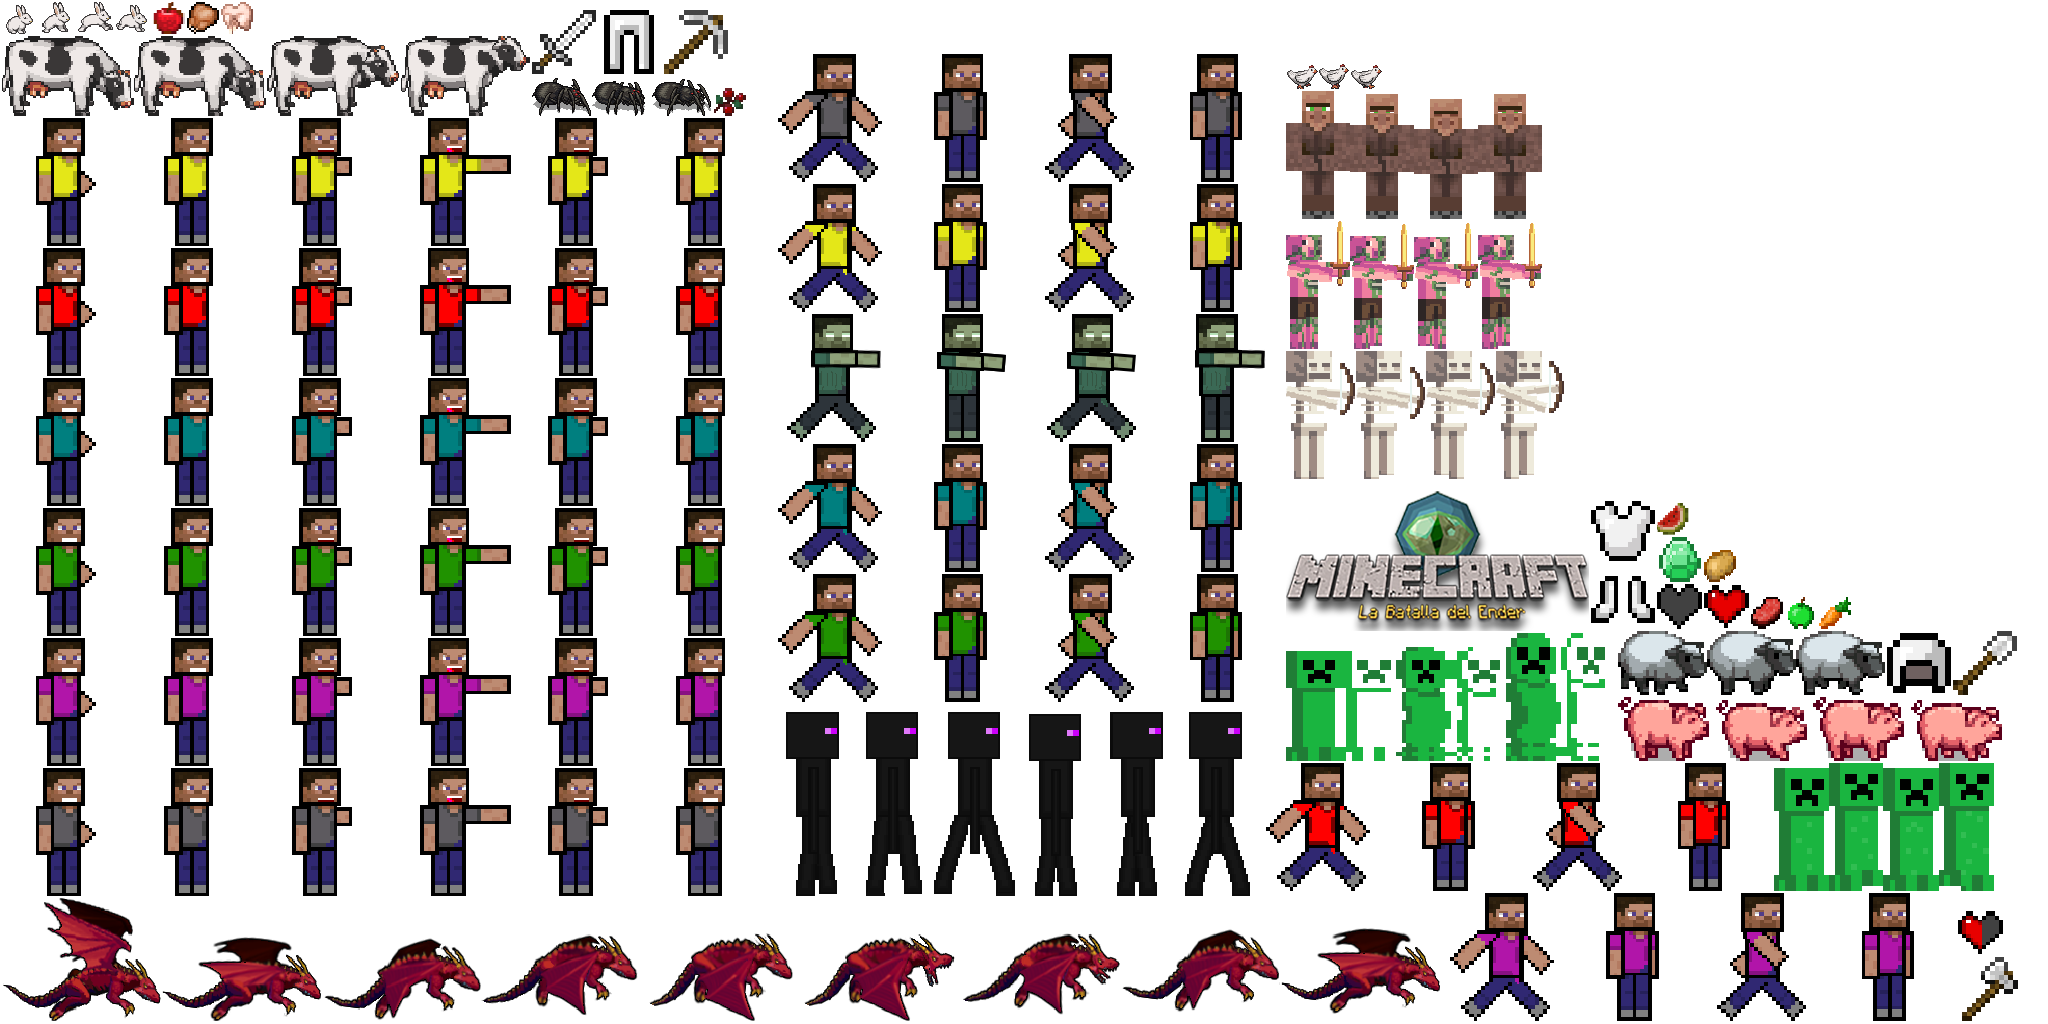
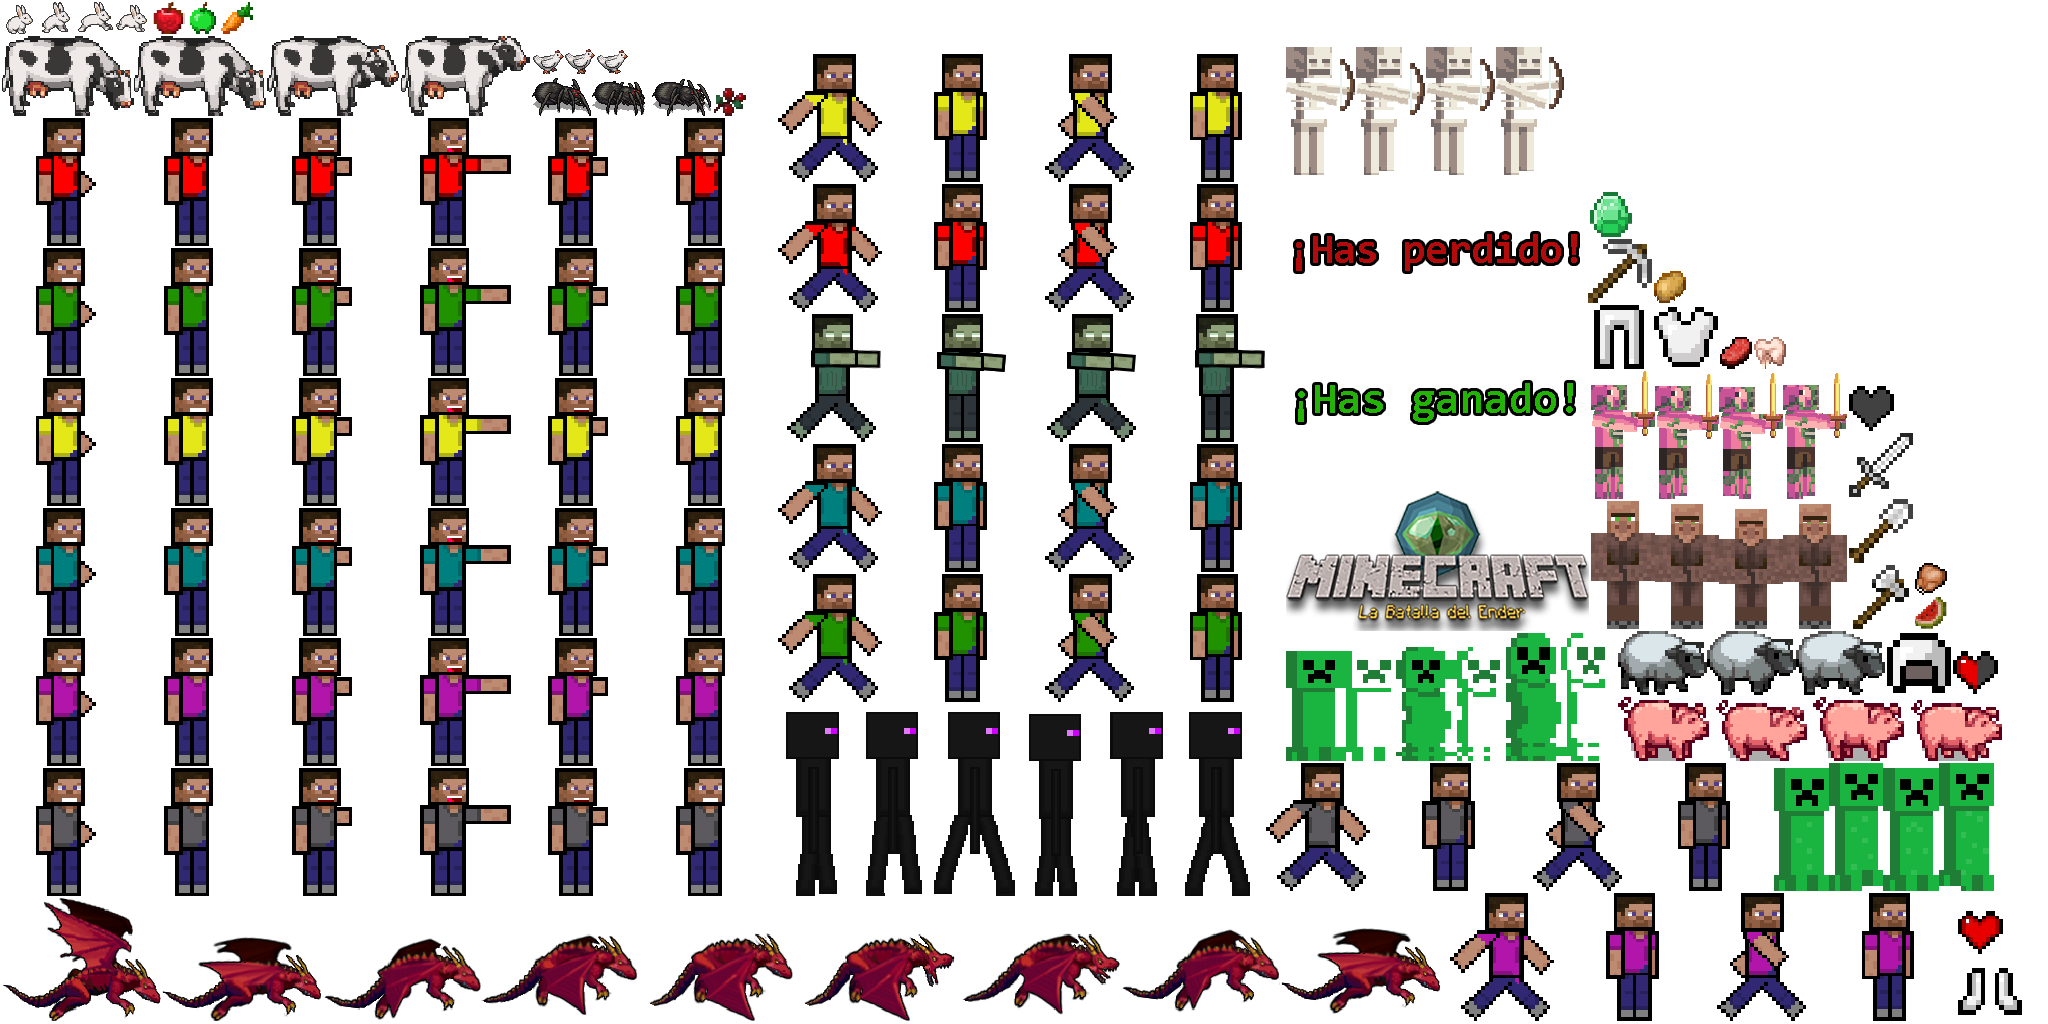
Mostrar mensaje

diff --git a/Minecraft/core/src/game/screens/GameScreen.java b/Minecraft/core/src/game/screens/GameScreen.java
@@ -29,7 +29,6 @@ import comunicacion.PaqueteResultado;
 import comunicacion.ProgresoJugador;
 import game.LoadScreen;
 import game.actors.Villager;
-import game.actors.monster.EnderDragon;
 import game.actors.monster.MonsterMob;
 import game.screens.worlds.Room;
 import game.screens.worlds.BiomeAssemblerClass;
@@ -359,6 +358,8 @@ public class GameScreen extends BaseScreen implements UsesSocket
         {
             mensajeConservacion.draw(batchUI, "¡No maltrates plantas ni animales en la vida real!", 100, 100);
         }
+        
+        batchUI.draw(getAtlas().findRegion("hasGanado"), Constant.FRAME_WIDTH / 2 + 100, Constant.FRAME_HEIGHT / 2);
         
         batchUI.end();
     }
